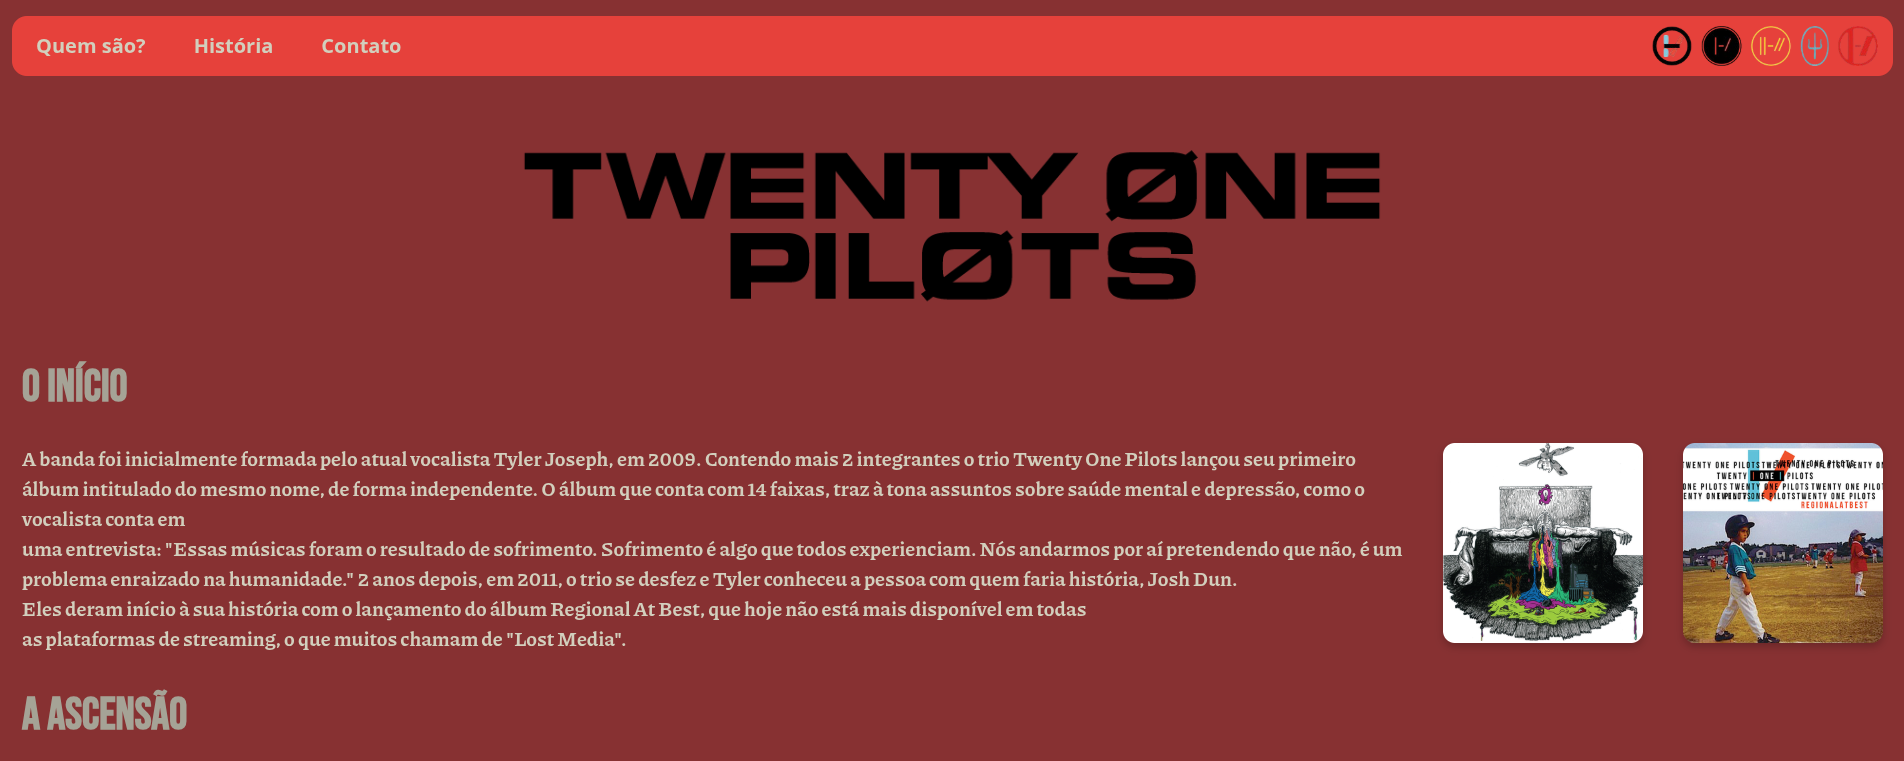
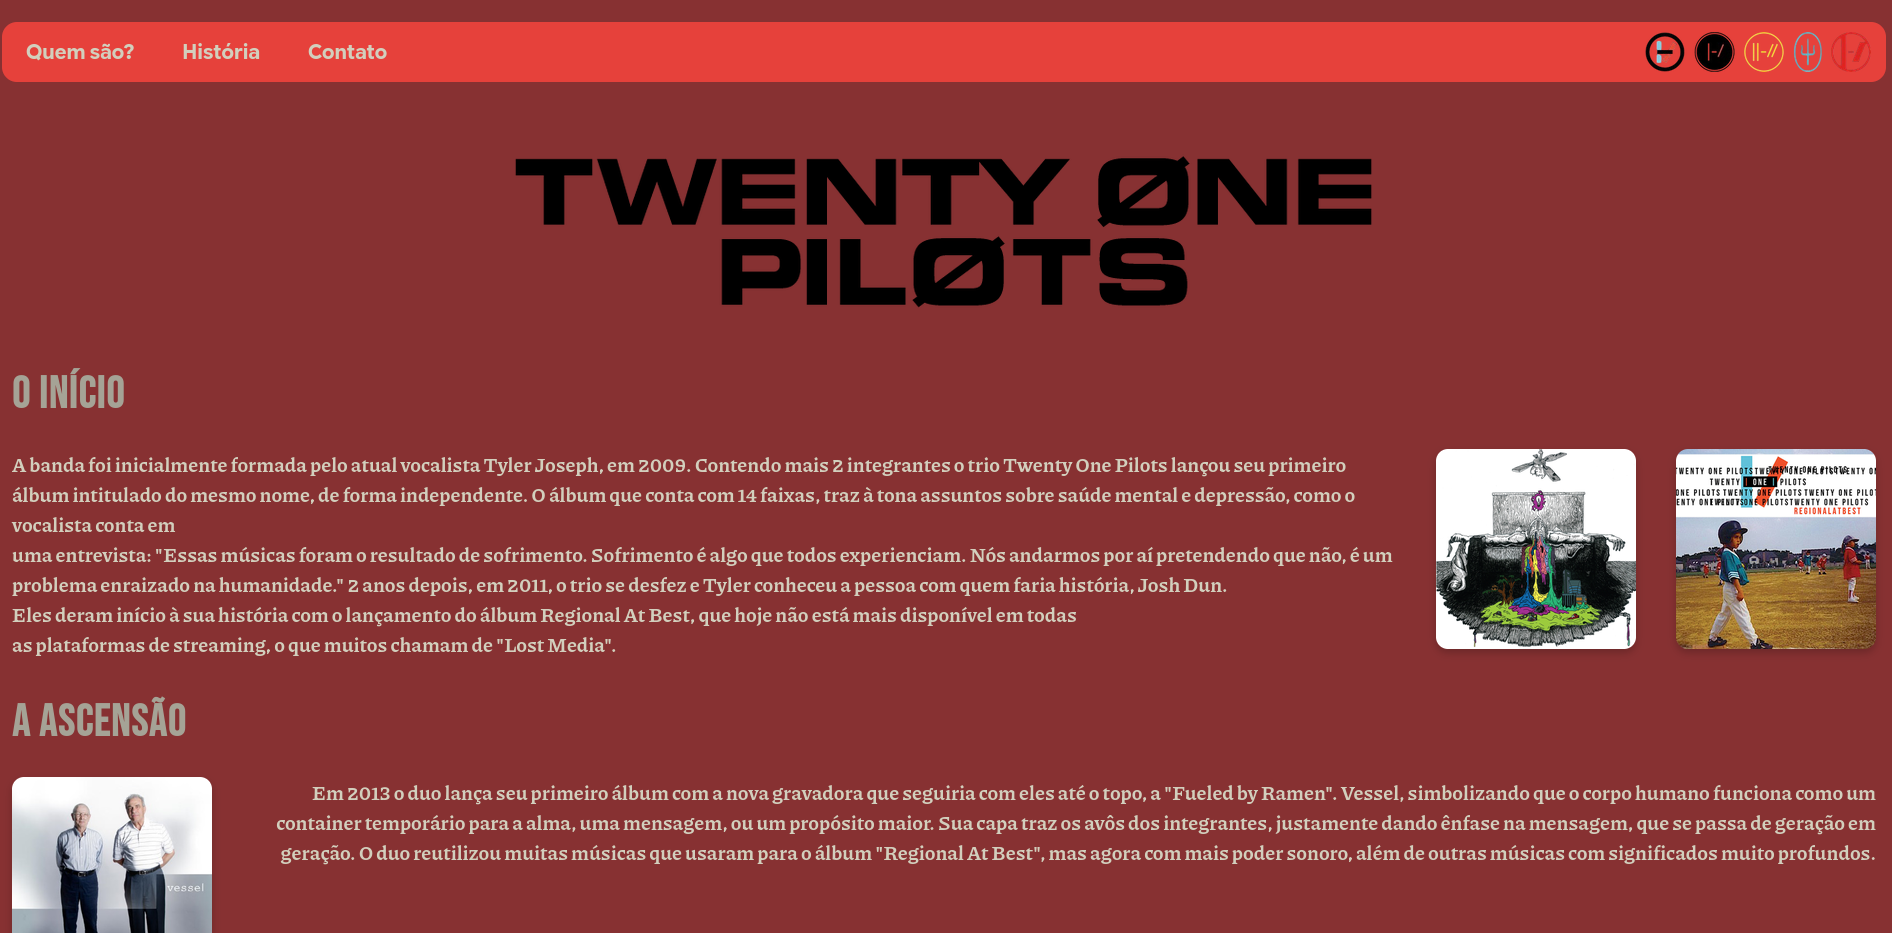
Adicionando Sessão de habilidades

diff --git a/index.html b/index.html
@@ -8,6 +8,7 @@
     <link rel="preconnect" href="https://fonts.googleapis.com">
     <link rel="preconnect" href="https://fonts.gstatic.com" crossorigin>
     <link href="https://fonts.googleapis.com/css2?family=Special+Gothic+Condensed+One&display=swap" rel="stylesheet">
+    <link href="https://fonts.googleapis.com/css2?family=Archivo+Black&display=swap" rel="stylesheet">
     <title>Portfolio</title>
 </head>
 <body>
@@ -72,17 +73,51 @@
         </div>
 
         <h2 class="section-titles">Projetos pessoais</h2>
-        <div>
+        <div style="display: flex;">
             <div class="card" style="width: 400px; margin: 20px; border: none; border-radius: 15px;">
                 <img src="imgs/21pilots-sitebanner.png" alt="" class="card-img-top">
                 <div class="card-body d-flex flex-column justify-content-between text-center" style="border: none; background-color: rgb(35, 45, 48); color: white;">
                     <h5 class="card-title"><b>21pilots Site</b></h5>
                     <p class="card-text">Site sobre a história da banda "Twenty One Pilots"</p>
-                    <a href="" class="btn btn-primary">Confira!</a>
-                    
+                    <a href="https://github.com/fesafer/21pilots-site" target="_blank" class="btn btn-primary">Confira!</a>                    
+                </div>
+            </div>
+            <div class="card" style="width: 400px; margin: 20px; border: none; border-radius: 15px;">
+                <img src="imgs/AvoCredit.png" alt="AvoCredit" class="card-img-top">
+                <div class="card-body d-flex flex-column justify-content-between text-center" style="border: none; background-color: rgb(35, 45, 48); color: white;">
+                    <h5 class="card-title"><b>AvoCredit</b></h5>
+                    <p class="card-text">Projeto de Análise de Crédito para pessoas endividadas na região Norte e Nordeste. <br>
+                    Atividade API realizada para a FATEC.</p>
+                    <a href="https://github.com/fatec-sjc-404-team/API-DSM-1SEMESTRE-2026" target="_blank" class="btn btn-primary">Confira!</a>                    
                 </div>
             </div>
         </div>
+
+        <h2 class="section-titles">Habilidades</h2>
+        <div style="display: flex; background-color: rgb(19, 14, 55); justify-content: space-evenly; text-align: center;" >
+            <div>
+                <h4 class="title-skills">Hard Skills</h4>
+                <ul style="list-style-type: none; margin: 20px; gap: 20px;" class="skills">
+                    <li>
+                        <img src="https://s3.dualstack.us-east-2.amazonaws.com/pythondotorg-assets/media/community/logos/python-logo-only.png" alt="" class="skill-icon">Python</li>
+                    <li>
+                        <img src="https://cdn-icons-png.flaticon.com/128/16020/16020759.png" alt="" class="skill-icon">Html</li>
+                    <li>
+                        <img src="https://cdn-icons-png.flaticon.com/128/732/732190.png" alt="" class="skill-icon">CSS</li>
+                    <li>
+                        <img src="https://cdn-icons-png.flaticon.com/128/6124/6124995.png" alt="" class="skill-icon">Linux</li>
+                    <li>
+                        <img src="imgs/flask.png" alt="" class="skill-icon">Flask</li>
+                    <li>
+                        <img src="https://cdn-icons-png.flaticon.com/128/10901/10901702.png" alt="" class="skill-icon">MySQL</li>
+
+                </ul>
+            </div>
+            <div>
+                <h4 class="title-skills">Soft Skills</h4>
+            </div>
+        </div>
+            
         
     </main>
 

diff --git a/style.css b/style.css
@@ -153,3 +153,25 @@ body {
     opacity: 0.7; 
     border: none;
 }
+
+.title-skills{
+    margin: 20px;
+    font-family: "Archivo Black", sans-serif;
+    font-size: 30px;
+}
+
+.skills li{
+    font-family: monospace;
+    margin: 15px;
+}
+
+.archivo-black-regular {
+  font-family: "Archivo Black", sans-serif;
+  font-weight: 400;
+  font-style: normal;
+}
+
+.skill-icon{
+    max-width: 20px;
+    margin: 5px;
+}
